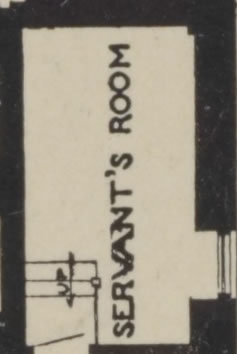
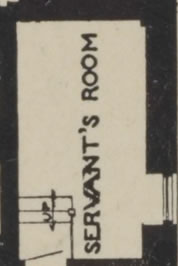
:space_invader: more rooms no dead ends (maybe)

diff --git a/js/editor.js b/js/editor.js
@@ -139,6 +139,7 @@ var Mansion;
             }
             g.ef();
             this.tileShape.graphics = g;
+            this.checkDoors();
             this.stage.update();
         };
         Editor.prototype.updateCursor = function (type) {

diff --git a/js/Editor.ts b/js/Editor.ts
@@ -141,6 +141,7 @@ module Mansion {
       }
       g.ef();
       this.tileShape.graphics = g;
+      this.checkDoors();
       this.stage.update();
     }
 
